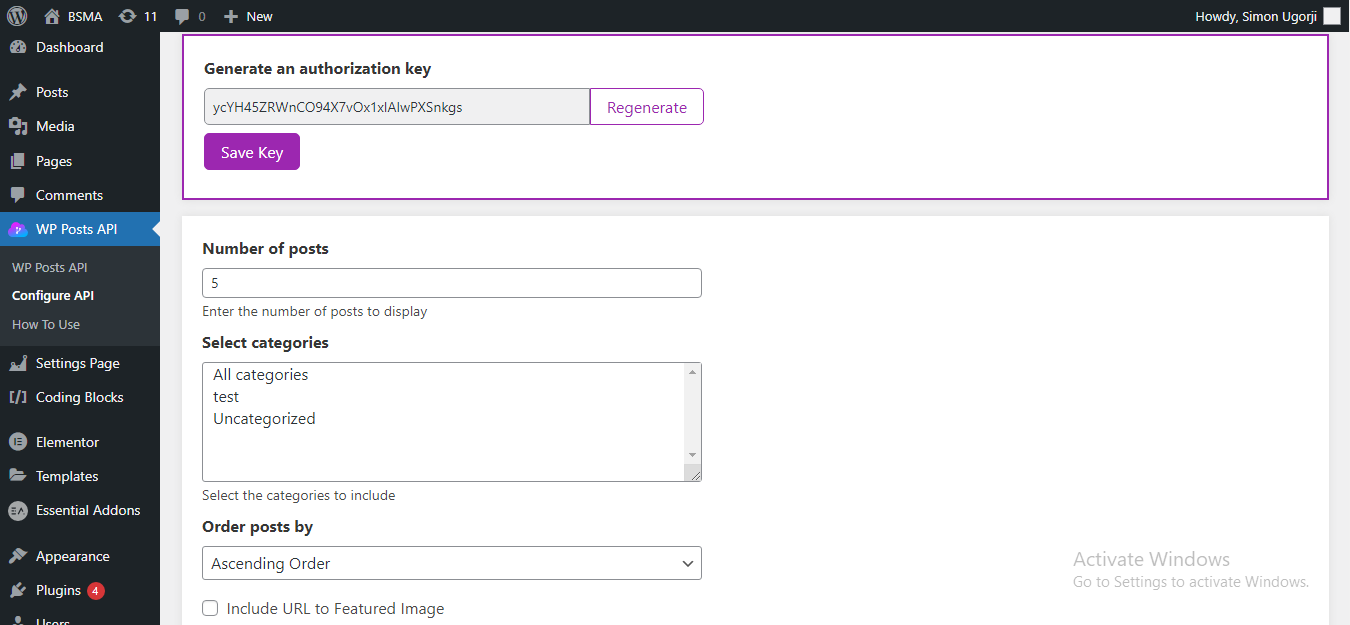
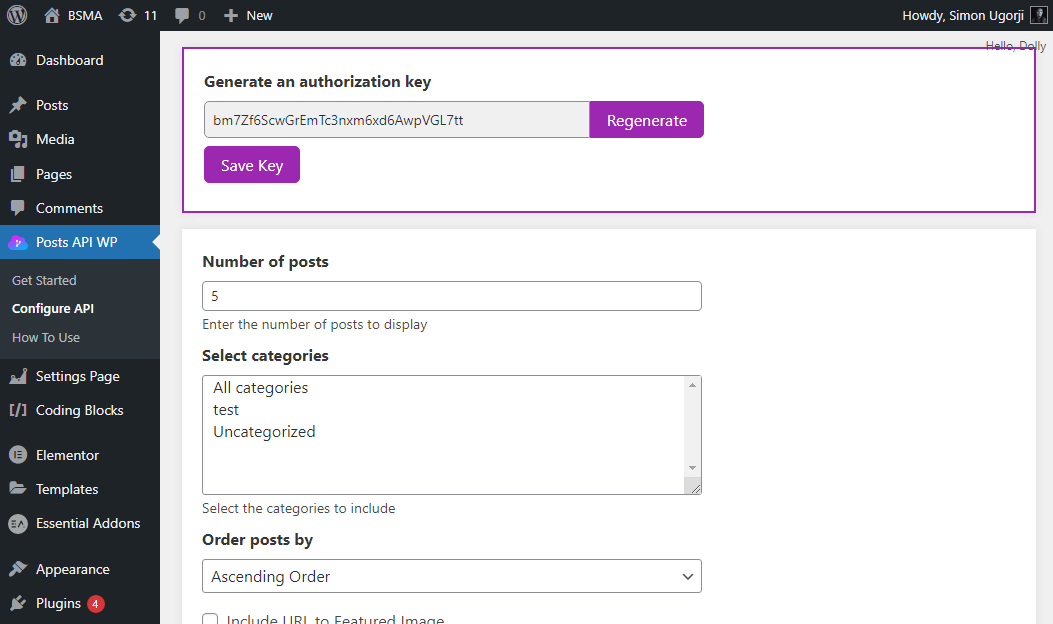
patch for v1.0.0

diff --git a/admin/js/posts-api-wp-admin.js b/admin/js/posts-api-wp-admin.js
@@ -104,6 +104,20 @@
 				$('#section_post_date_format').hide()
 			}
 		})
+		
+		//handle additional fields
+		$('.chk-all-add-fields').on('change', function(){
+			//if the checkbox is checked
+			if(this.checked){
+				document.querySelectorAll('.chk-add-fields').forEach(box => {
+					box.checked = true;
+				})
+			}else{
+				document.querySelectorAll('.chk-add-fields').forEach(box => {
+					box.checked = false;
+				})
+			}
+		})
 	})
 
 })(jQuery);

diff --git a/admin/pages/config-api.php b/admin/pages/config-api.php
@@ -21,6 +21,7 @@ $args = array(
     'category__in' => [],
     'category__not__in' => []
 );
+
 */
 //var_dump(get_posts(['numberPosts' => 20]));
 //get_categories() lists out the categories that has a post assigned to them
@@ -31,6 +32,8 @@ $success = false;
 $success_msg = "";
 
 $author_meta_fields = ['admin_color', 'aim', 'comment_shortcuts', 'description', 'display_name', 'first_name', 'ID', 'jabber', 'last_name', 'nickname', 'plugins_last_view', 'plugins_per_page', 'rich_editing', 'syntax_highlighting', 'user_email', 'user_firstname', 'user_lastname', 'user_level', 'user_nicename', 'user_status', 'user_url', 'yim'];
+
+$additionalFields = ["ID","post_excerpt","post_status","comment_status","ping_status","post_password","post_name","to_ping","pinged","post_content_filtered","post_parent","guid","menu_order","post_type","post_mime_type","comment_count","filter"];
 
 if ($_SERVER['REQUEST_METHOD'] === 'POST' && isset($_POST['config-api'])) {
     //check if configuration was saved before
@@ -88,6 +91,16 @@ if ($_SERVER['REQUEST_METHOD'] === 'POST' && isset($_POST['config-api'])) {
             }
             else {
                 $config->post_date_format = sanitize_text_field($_POST['post_date_format']);
+            }
+        }
+        //additional fields
+        //reset array
+        $config->additional_fields = [];
+        foreach($additionalFields as $field){
+            //check if user needs it
+            if (isset($_POST[$field]) && !empty($_POST[$field])) {
+                //store the field
+                $config->additional_fields[] = $field;
             }
         }
     }
@@ -152,6 +165,16 @@ if ($_SERVER['REQUEST_METHOD'] === 'POST' && isset($_POST['config-api'])) {
                 $config['post_date_format'] = sanitize_text_field($_POST['post_date_format']);
             }
         }
+        //additional fields
+        //reset array
+        $config['additional_fields'] = [];
+        foreach($additionalFields as $field){
+            //check if user needs it
+            if (isset($_POST[$field]) && !empty($_POST[$field])) {
+                //store the field
+                $config['additional_fields'][] = $field;
+            }
+        }
     }
     //update configuration
     update_option('posts_api_wp_config', json_encode($config));
@@ -184,6 +207,7 @@ if ($_SERVER['REQUEST_METHOD'] === 'POST' && isset($_POST['config-authHeader']))
 ?>
 <!DOCTYPE html>
 <html>
+
 <body>
     <div class="wrap" id="posts-api-wp">
         <?php
@@ -252,7 +276,8 @@ if ($success) {
                     Post
                 </div>
                 <div class="mb-3 font-1">
-                    <input id="chk_author_meta" name="authorMeta" type="checkbox" class="posts-api-wp-input" value="1">&nbsp;Include Author Meta
+                    <input id="chk_author_meta" name="authorMeta" type="checkbox" class="posts-api-wp-input"
+                        value="1">&nbsp;Include Author Meta
                 </div>
                 <div class="mb-2" id="select_author_meta" style="display:none;">
                     <label class="label">Select Meta data to include</label>
@@ -260,20 +285,22 @@ if ($success) {
                         <?php
                             foreach ($author_meta_fields as $field) {
                         ?>
-                            <option value="<?php echo esc_html($field); ?>">
-                                <?php echo esc_html($field); ?>
-                            </option>
+                        <option value="<?php echo esc_html($field); ?>">
+                            <?php echo esc_html($field); ?>
+                        </option>
                         <?php
                             }
                         ?>
                     </select>
                 </div>
                 <div class="mb-3 font-1">
-                    <input id="chk_format_post_date" name="postDate" type="checkbox" class="posts-api-wp-input" value="1">&nbsp;Format Post Date
+                    <input id="chk_format_post_date" name="postDate" type="checkbox" class="posts-api-wp-input"
+                        value="1">&nbsp;Format Post Date
                 </div>
                 <div class="mb-2" id="section_post_date_format" style="display:none;">
                     <label class="label">Select Date Format</label>
-                    <select id="select_post_date_format" name="post_date_format" class="w-100 posts-api-wp-input font-1">
+                    <select id="select_post_date_format" name="post_date_format"
+                        class="w-100 posts-api-wp-input font-1">
                         <option value="">Select One</option>
                         <option value="custom">Custom Date Format</option>
                         <option value="m-d-y">09-18-01</option>
@@ -293,8 +320,69 @@ if ($success) {
                         <b>Y</b> stands for the full year ie <b>2001</b> <br>
                     </p>
                     <label class="label">Enter a Custom Format</label>
-                    <input name="post_date_format_custom" type="text" class="w-100 posts-api-wp-input" value="D d, Y" placeholder="Enter the date format to use">
+                    <input name="post_date_format_custom" type="text" class="w-100 posts-api-wp-input" value="D d, Y"
+                        placeholder="Enter the date format to use">
                 </div>
+                <section>
+                    <p class="font-1 fw-bold mb-2">Additional Fields</p>
+
+                    <div >
+                        <div class="mb-3 font-1">
+                            <input class="chk-add-fields" name="filter" type="checkbox" class="posts-api-wp-input" value="1">&nbsp;Include Filter
+                        </div>
+                        <div class="mb-3 font-1">
+                            <input class="chk-add-fields" name="ID" type="checkbox" class="posts-api-wp-input" value="1">&nbsp;Include Post ID
+                        </div>
+                        <div class="mb-3 font-1">
+                            <input class="chk-add-fields" name="post_excerpt" type="checkbox" class="posts-api-wp-input" value="1">&nbsp;Include Post Excerpt
+                        </div>
+                        <div class="mb-3 font-1">
+                            <input class="chk-add-fields" name="post_status" type="checkbox" class="posts-api-wp-input" value="1">&nbsp;Include Post Status
+                        </div>
+                        <div class="mb-3 font-1">
+                            <input class="chk-add-fields" name="comment_status" type="checkbox" class="posts-api-wp-input" value="1">&nbsp;Include Comment Status
+                        </div>
+                        <div class="mb-3 font-1">
+                            <input class="chk-add-fields" name="comment_count" type="checkbox" class="posts-api-wp-input" value="1">&nbsp;Include Comment Count
+                        </div>
+                        <div class="mb-3 font-1">
+                            <input class="chk-add-fields" name="ping_status" type="checkbox" class="posts-api-wp-input" value="1">&nbsp;Include Ping Status
+                        </div>
+                        <div class="mb-3 font-1">
+                            <input class="chk-add-fields" name="post_password" type="checkbox" class="posts-api-wp-input" value="1">&nbsp;Include Post Password
+                        </div>
+                        <div class="mb-3 font-1">
+                            <input class="chk-add-fields" name="post_type" type="checkbox" class="posts-api-wp-input" value="1">&nbsp;Include Post Type
+                        </div>
+                        <div class="mb-3 font-1">
+                            <input class="chk-add-fields" name="post_mime_type" type="checkbox" class="posts-api-wp-input" value="1">&nbsp;Include Post MIME type
+                        </div>
+                        <div class="mb-3 font-1">
+                            <input class="chk-add-fields" name="post_content_filtered" type="checkbox" class="posts-api-wp-input" value="1">&nbsp;Include Post Content Filtered
+                        </div>
+                        <div class="mb-3 font-1">
+                            <input class="chk-add-fields" name="post_parent" type="checkbox" class="posts-api-wp-input" value="1">&nbsp;Include Post Parent
+                        </div>
+                        <div class="mb-3 font-1">
+                            <input class="chk-add-fields" name="post_name" type="checkbox" class="posts-api-wp-input" value="1">&nbsp;Include Post Name
+                        </div>
+                        <div class="mb-3 font-1">
+                            <input class="chk-add-fields" name="guid" type="checkbox" class="posts-api-wp-input" value="1">&nbsp;Include GUID
+                        </div>
+                        <div class="mb-3 font-1">
+                            <input class="chk-add-fields" name="menu_order" type="checkbox" class="posts-api-wp-input" value="1">&nbsp;Include Menu Order
+                        </div>
+                        <div class="mb-3 font-1">
+                            <input class="chk-add-fields" name="to_ping" type="checkbox" class="posts-api-wp-input" value="1">&nbsp;Include To Ping
+                        </div>
+                        <div class="mb-3 font-1">
+                            <input class="chk-add-fields" name="pinged" type="checkbox" class="posts-api-wp-input" value="1">&nbsp;Include Pinged
+                        </div>
+                    </div>
+                    <div class="mb-3 font-1" style="border-top: 1px solid #ddd;padding-top: 10px;">
+                        <input class="chk-all-add-fields" type="checkbox" class="posts-api-wp-input">&nbsp;Check All Additional Fields
+                    </div>
+                </section>
                 <div class="mb-2">
                     <button class="posts-api-wp-btn" type="submit">Save configuration</button>
                 </div>
@@ -302,4 +390,5 @@ if ($success) {
         </section>
     </div>
 </body>
+
 </html>

diff --git a/templates/template-get-posts.php b/templates/template-get-posts.php
@@ -42,9 +42,8 @@ if ($_SERVER['REQUEST_METHOD'] == 'GET') {
     //var_dump($_SERVER);
     //in javascript, headers are sent lowercased using the new Headers constructor with fetch
     //check if api key was provided
-    if (array_key_exists('Authorization', apache_request_headers())) {
-        $authHeader = apache_request_headers();
-        $authHeader = $authHeader['Authorization'];
+    if (array_key_exists('HTTP_X_API_KEY', $_SERVER)) {
+        $authHeader = $_SERVER['HTTP_X_API_KEY'];
     }
     else {
         returnData(400, false, "You must provide an Authorization header");
@@ -58,6 +57,12 @@ if ($_SERVER['REQUEST_METHOD'] == 'GET') {
     //build query arguments
     $args = [];
     $args_not_included = ["authKey", "featuredImg", "articleUrl"];
+    //11 total allowed fields and 17 total additional fields making all fields 28
+    $allowed_fields = ["post_date","post_date_gmt","post_content","post_title","post_modified","post_modified_gmt","featuredImg","articleUrl","post_author_display_name","post_author_first_name","post_author_last_name"];
+
+    //fields to dump
+    $fields_to_dump = array_merge($config->additional_fields, $allowed_fields);
+
     foreach ($config as $key => $value) {
         //check if key should be included
         if ( !in_array($key, $args_not_included) ) {
@@ -74,6 +79,10 @@ if ($_SERVER['REQUEST_METHOD'] == 'GET') {
             $retval[$key] = $obj;
 
             foreach ($obj as $innerKey => $innerVal) {
+                //remove unnecessary fields from response object
+                if(!in_array($innerKey, $fields_to_dump)){
+                    unset($retval[$key]->$innerKey);
+                }
                 //inner key is like ID, post_author etc
                 //if user wants url to the featured Image
                 if ($config->featuredImg && $innerKey == 'ID') {
@@ -87,6 +96,10 @@ if ($_SERVER['REQUEST_METHOD'] == 'GET') {
                 if ($config->post_date_format && $innerKey == 'post_date') {
                     $retval[$key]->$innerKey = gmdate($config->post_date_format, strtotime($innerVal));
                 }
+                //if user wants to format the post date
+                if ($config->post_date_format && $innerKey == 'post_modified') {
+                    $retval[$key]->$innerKey = gmdate($config->post_date_format, strtotime($innerVal));
+                }
                 //if user wants to retrieve author meta
                 if ($config->author_meta && $innerKey == 'post_author') {
                     //loop through the author meta fields that the user wants to see
@@ -96,6 +109,10 @@ if ($_SERVER['REQUEST_METHOD'] == 'GET') {
                             $authorKey = $innerKey.'_'.$metaField;
                             //add to the return data
                             $retval[$key]->$authorKey = getAuthorMeta($metaField, intval($innerVal));
+                            //remove the post author's id from array
+                            if(isset($retval[$key]->post_author)) {
+                                unset($retval[$key]->post_author);
+                            }
                         }
                     }
                 }

diff --git a/admin/pages/how-to-use.php b/admin/pages/how-to-use.php
@@ -35,7 +35,7 @@ RewriteEngine On<br>
 RewriteCond %{REQUEST_METHOD} GET<br>
 RewriteCond %{REQUEST_FILENAME} !-f<br>
 ##Syntax<br>
-##RewriteRule CUSTOM_ROUTE$ ENDPOINT_URL [NC,L]<br>
+##RewriteRule CUSTOM_ROUTE$ BLOG_FOLDER/ENDPOINT_URL/ [NC,L]<br>
 ##For Example<br>
 RewriteRule api/get-wordpress-posts$ blog/posts-api-wp/ [NC,L]</pre>
             </article>
@@ -44,10 +44,10 @@ RewriteRule api/get-wordpress-posts$ blog/posts-api-wp/ [NC,L]</pre>
             <article>
                 <h2 class="mb-2 fw-bold">Request Method & Authorization Header</h2>
                 <p class="font-1 mb-2">Before you can retrieve data with the API, you must send a <b>GET</b> request to the endpoint and include your API Key in the authorization header.</p>
-                <p class="mb-2 font-1"><code>Authorization: YOUR_API_KEY</code></p>
+                <p class="mb-2 font-1"><code>X-API-Key: YOUR_API_KEY</code></p>
                 <p class="mb-2 font-1">For example</p>
-                <p class="mb-2 font-1"><code class="mb-2">Authorization: XAXXXXBCDXXXXEFXXXXGXXXHIJXXXXXX</code></p>
-                <p class="font-1">Before you include your API key in the Authorization Header, make sure it is the recent one which you just generated on the configuration page.</p>
+                <p class="mb-2 font-1"><code class="mb-2">X-API-Key: XAXXXXBCDXXXXEFXXXXGXXXHIJXXXXXX</code></p>
+                <p class="font-1">Before you include your API key in the Authorization Header, make sure it is the recent one which you generated on the configuration page.</p>
             </article>
         </section>
         <section class="mt-3 posts-api-wp-section">

diff --git a/posts-api-wp.php b/posts-api-wp.php
@@ -15,7 +15,7 @@
  * @wordpress-plugin
  * Plugin Name:       Posts API WP
  * Plugin URI:        https://octagon-simon.github.io/projects/posts-api-wp/
- * Description:       Posts API WP is a plugin that helps to make your WordPress posts available outside your WordPress site. This plugin acts as an API that can be used to share your WordPress posts to other websites.
+ * Description:       Posts API WP is a plugin that helps to make your WordPress posts available outside your WordPress blog. This plugin creates a virtual API that can be used to share your wordpress posts to other websites.
  * Version:           1.0.0
  * Author:            Simon Ugorji
  * Author URI:        https://octagon-simon.github.io

diff --git a/core/functions.php b/core/functions.php
@@ -1,5 +1,17 @@
 <?php
-
 //get the post url
+function getPostUrl(int $post_id = 0) :string{
+    return(esc_url( get_permalink($post_id) ) );
+}
 
+function getPostFeaturedImage(int $post_id = 0, string $image_size) :string{
+    //image size => small, medium, large
+    return(get_the_post_thumbnail_url($post_id, $image_size) );
+}
+
+function getAuthorMeta(string $field = '', int $author_id) :string{
+    //the_author_meta returns text like youre echoing the one from get_author_meta. it should be used when you wish to directly echo an author meta without the use of the echo or print keyword
+    //returns the author meta data
+    return(get_the_author_meta($field, $author_id));
+}
 ?>
